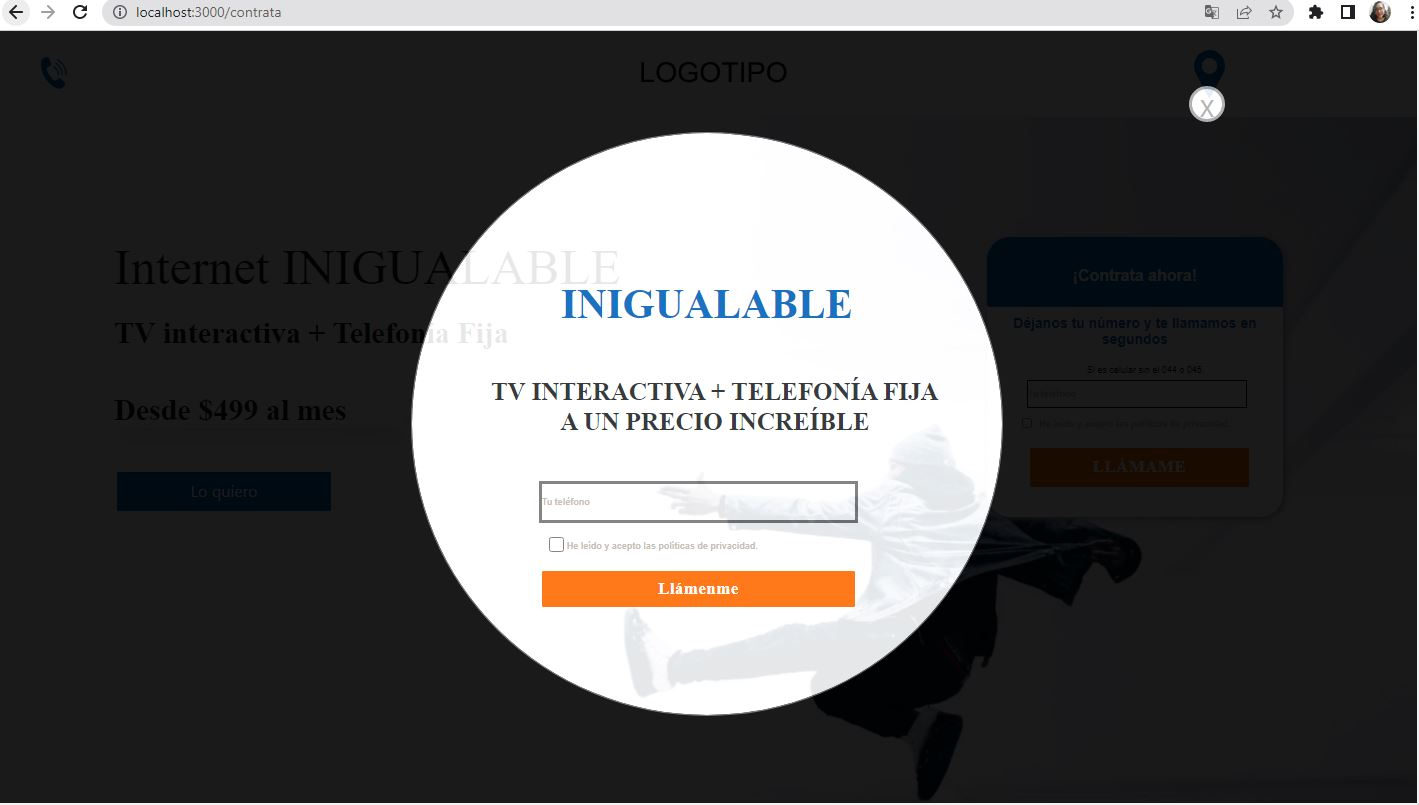
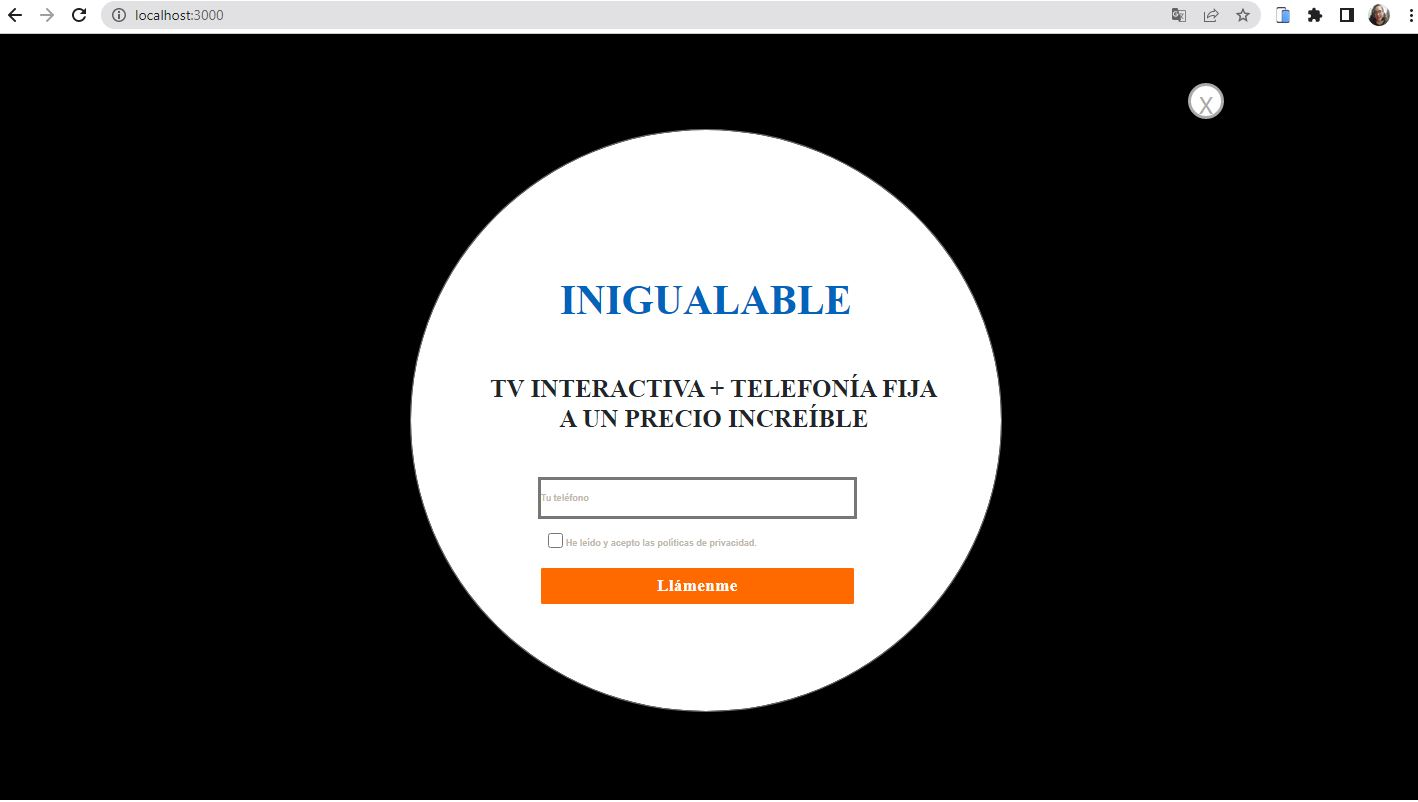
Responsive Completo

diff --git a/src/style/style.css b/src/style/style.css
@@ -182,7 +182,7 @@ body {
         width: 296px;
         height: 280px;
         margin-left: 280px;
-        margin-top: 120px;
+        margin-top: 130px;
         letter-spacing: 2px;
         border-radius: 23px;
         box-sizing: border-box;   
@@ -451,6 +451,7 @@ body {
       
     }
 
+
     .atc-img-p{
         text-align: center;
         font: normal normal normal 18px/22px Roboto;
@@ -529,7 +530,7 @@ body {
     
     .footer-info{
         display: grid;
-        grid-template-columns: 35% 10% 1% 9% 10%;
+        grid-template-columns: 30% 10% 10% 19% 10%;
         justify-content: center;
         align-items: center;
         background: #FFFFFF 0% 0% no-repeat padding-box;
@@ -555,7 +556,7 @@ body {
     }
     
     .footer-contact-input{
-         height: 25px;
+        height: 25px;
         border: transparent;
         text-align: left;
         font: normal normal normal 14px/18px Roboto;
@@ -567,6 +568,7 @@ body {
     .footer-accept-check{
         width: 8px;
         height: 6px;
+        margin-left: 5em;
     }
     
     .footer-contact-acceptP{
@@ -575,6 +577,8 @@ body {
         letter-spacing: 0px;
         opacity: 1;
         align-items: center;
+        margin-left: -5em;
+        margin-top: 1.5em;
     }
 
     .button-call-footer {
@@ -589,7 +593,7 @@ body {
         border: 3px solid #FFFFFF;
         border-radius: 4px;
         opacity: 1;
-        margin-left: 1em;
+        margin-left: -3em;
     }
     
 /*Popup*/
@@ -602,7 +606,7 @@ body {
     position: fixed;
     align-items: center;
     background: #000000 0% 0% no-repeat padding-box;
-    opacity: 0.9; 
+    opacity: 1; 
     z-index: 1;
 }
   
@@ -1090,6 +1094,137 @@ body {
     opacity: 1;
 }
 
+    /*atc*/
+    
+    .atc-container{
+        width: 98vw;
+        display: grid;
+        grid-template-rows: 5% 38% 16% 10% 5% 7% 20% 9%;
+    }
+     
+    .atc-first-container {
+        display: grid;
+        grid-template-rows: 20% 20% 20%;
+        height: 70vh;
+        width: 99vw;
+        background-image: url('../assets/edu-lauton-TyQ-0lPp6e4-unsplash.png');
+        background-position: center;
+        justify-content: center;
+        align-items: center;
+      }
+    
+    .atc-p-one {
+        margin-top: 3em;
+        text-align: center;
+        font: normal normal bold 60px/76px Roboto;
+        letter-spacing: 0px;
+        color: #FFFFFF;
+        opacity: 1;
+    }
+
+    .atc-p-two{
+        margin-top:2em;
+        text-align: center;
+        font: italic normal normal 50px/67px Roboto;
+        letter-spacing: 0px;
+        color: #FFFFFF;
+        opacity: 1;
+    }
+
+    .button-help-one {
+        width: 40vw;
+        height: 5vh;
+        margin-top: 2em;
+        justify-self: center;
+        background: #0063BC 0% 0% no-repeat padding-box;
+        color: white;
+        border: 3px solid #FFFFFF;
+        border-radius: 4px;
+
+    }
+
+    .atc-second-container{
+        display: flex;
+        justify-content: center;
+        width: 98vw;
+        height: 17vh;
+    }
+
+    .atc-p-tree{
+        font: normal normal normal 17px/22px Roboto;
+        letter-spacing: 0px;
+        color: #000000;
+        text-align: justify;
+        margin-top: 2em;
+    }
+
+    .atc-third-container{
+        display: grid;
+        width: 99vw;
+        height: 25vh;
+        grid-template-columns: 21% 21% 21% 21% 21%;
+        grid-template-rows: 45% 20%;
+        
+    }
+
+    .atc-img{
+        width: 80%;
+    }
+
+    .atc-img-p{
+        text-align: left;
+        font: normal normal normal 10px/14px Roboto;
+        letter-spacing: 0px;
+        color: #000000;
+        opacity: 1;
+    }
+        
+    .atc-fourth-container{
+        display: grid;
+        height: 7vh;
+        grid-template-columns: 15% 35% 15% 20%;
+        background: #0063BC 0% 0% no-repeat padding-box;
+        opacity: 1;
+        justify-items: space-around;
+        align-items: center;
+    }
+
+    .atc-img-email{
+       width: 60%;
+       margin-left: 1em;
+    }
+
+    .atc-contact-p{
+        text-align: left;
+        font: normal normal normal 8px/12px Roboto;
+        letter-spacing: 0px;
+        color: #FFFFFF;
+        margin-left: 2em;
+        opacity: 1;
+   }
+
+   .atc-fifth-container{
+    display: flex;
+    flex-direction: column;
+    justify-content: center;
+    align-items: center;
+   }
+
+
+   .button-help-two {
+    width: 220px;
+    height: 45px;
+    color: #FF6A00;
+    border: 3px solid #FF6A00;
+    border-radius: 4px;
+    opacity: 1;
+    background-color: transparent;
+    font: normal normal bold 17px/20px Roboto;
+    letter-spacing: 0.42px;
+    text-transform: uppercase;
+
+}
+
 
     
     /*footer*/
@@ -1194,7 +1329,121 @@ body {
         margin-left: 5em;
     }
 
+/*Popup*/
+.overlay {
+    width: 99vw;
+    height: 192vh;
+    display: flex;
+    flex-direction: row;
+    justify-content: center;
+    position: fixed;
+    align-items: center;
+    background: #000000 0% 0% no-repeat padding-box;
+    opacity: 1; 
+    z-index: 1;
+}
+  
+  .popup {
+    display: grid;
+    grid-template-rows: 35% 12% 12% 5% 5% 5% ;
+    border-radius:100%;
+    width: 97vw;
+    height: 47vh;
+    position: relative;
+    margin-top: 600px;
+    background-color: #FFFFFF;
+    border: 1px solid #707070;
+    opacity: 1;
+  }
+  
+  .btn-close-popup{
+    display: block;
+    color: #AAAAAA;
+    cursor: pointer;
+    margin-left: 13em;
+    font-size: 1.5em;
+    position: absolute;
+    text-align: center;
+    text-decoration: none;
+    width: 1.5em;
+    height: 1.5em;
+    border: 3px solid #AAAAAA;
+    background-color: #FFFFFF;
+    border-radius: 100%;
+    opacity: 1;
+  }
+  
+  .btn-close-popup:hover {
+    color: #113246;
+    
+  }
+  
+  .popup-title-data{
+     text-align: left;
+     margin-left: 2.9em;
+     margin-top: 1.2em;
+    font: normal normal bold 28px/29px Roboto;
+    letter-spacing: 0px;
+    color: #0063BC;
+    opacity: 1;
+  }
 
+  .popup-data-paragraph{
+    width: 90vw;
+    height: 47vh;
+    text-align: center;
+    font: normal normal bold 17px/22px Roboto;
+    letter-spacing: 0px;
+     opacity: 1;
+     margin-left: 1em;
+  }
+
+    
+  .popup-form-input {
+    width: 70vw;
+    height: 5vh;
+    margin-left: 5em;
+    margin-top: 2em;
+    font: normal normal bold 9px/10px Arial;
+    letter-spacing: 0px;
+    color: #BFB8AE;
+    border: 3px solid #777777;
+}
+  
+  
+  .popup-form-accept-check {
+    width: 15px;
+    height: 15px;
+    border: 1px solid gray;
+    margin-left: 3em;
+    margin-top: 1em;
+}
+
+.popup-form-acceptP {
+    text-align: left;
+    margin-top: 0.5em;
+    margin-left: 8em;
+    font: normal normal bold 9px/10px Arial;
+    letter-spacing: 0px;
+    color: #BFB8AE;
+    margin-bottom: 30px;
+}
+
+.button-call-me{
+    width: 50vw;
+    height: 5vh;
+    text-align: center;
+    font: normal normal bold 17px/20px Roboto;
+    letter-spacing: 0.42px;
+    color: #FFFFFF;
+    opacity: 1;
+    background: #FF6A00 0% 0% no-repeat padding-box;
+    border: 3px solid #FFFFFF;
+    border-radius: 4px;
+    opacity: 1;
+    margin-left: 5em;
+    margin-top: 1em;
+}
 
 }
 

diff --git a/src/views/atc.js b/src/views/atc.js
@@ -64,13 +64,13 @@ function atc() {
     const atcFourthContainer = document.createElement('div');
     atcFourthContainer.classList.add('atc-fourth-container');
     const atcEmailImg = document.createElement('img');
-    atcEmailImg.classList.add('atc-img');
+    atcEmailImg.classList.add('atc-img-email');
     atcEmailImg.src = '../assets/correo.svg';
     const atcEmailP = document.createElement('p');
     atcEmailP.classList.add('atc-contact-p');
     atcEmailP.textContent="atencionclientes@xxxx.com.mx";
     const atcPhoneImg = document.createElement('img');
-    atcPhoneImg.classList.add('atc-img');
+    atcPhoneImg.classList.add('atc-img-email');
     atcPhoneImg.src = '../assets/phone_white.png';
     const atcPhoneP = document.createElement('p');
     atcPhoneP.classList.add('atc-contact-p');

diff --git a/src/views/contrata.js b/src/views/contrata.js
@@ -25,7 +25,7 @@ function contrata() {
   contrataParagraphTree.textContent = 'Desde $499 al mes';
   const buttonGet = document.createElement('button');
   buttonGet.classList.add('button-get');
-  buttonGet.textContent = 'Lo quiero';
+  buttonGet.textContent = 'LO QUIERO';
   buttonGet.addEventListener('click', () => {
     onNavigate('/');
   });
